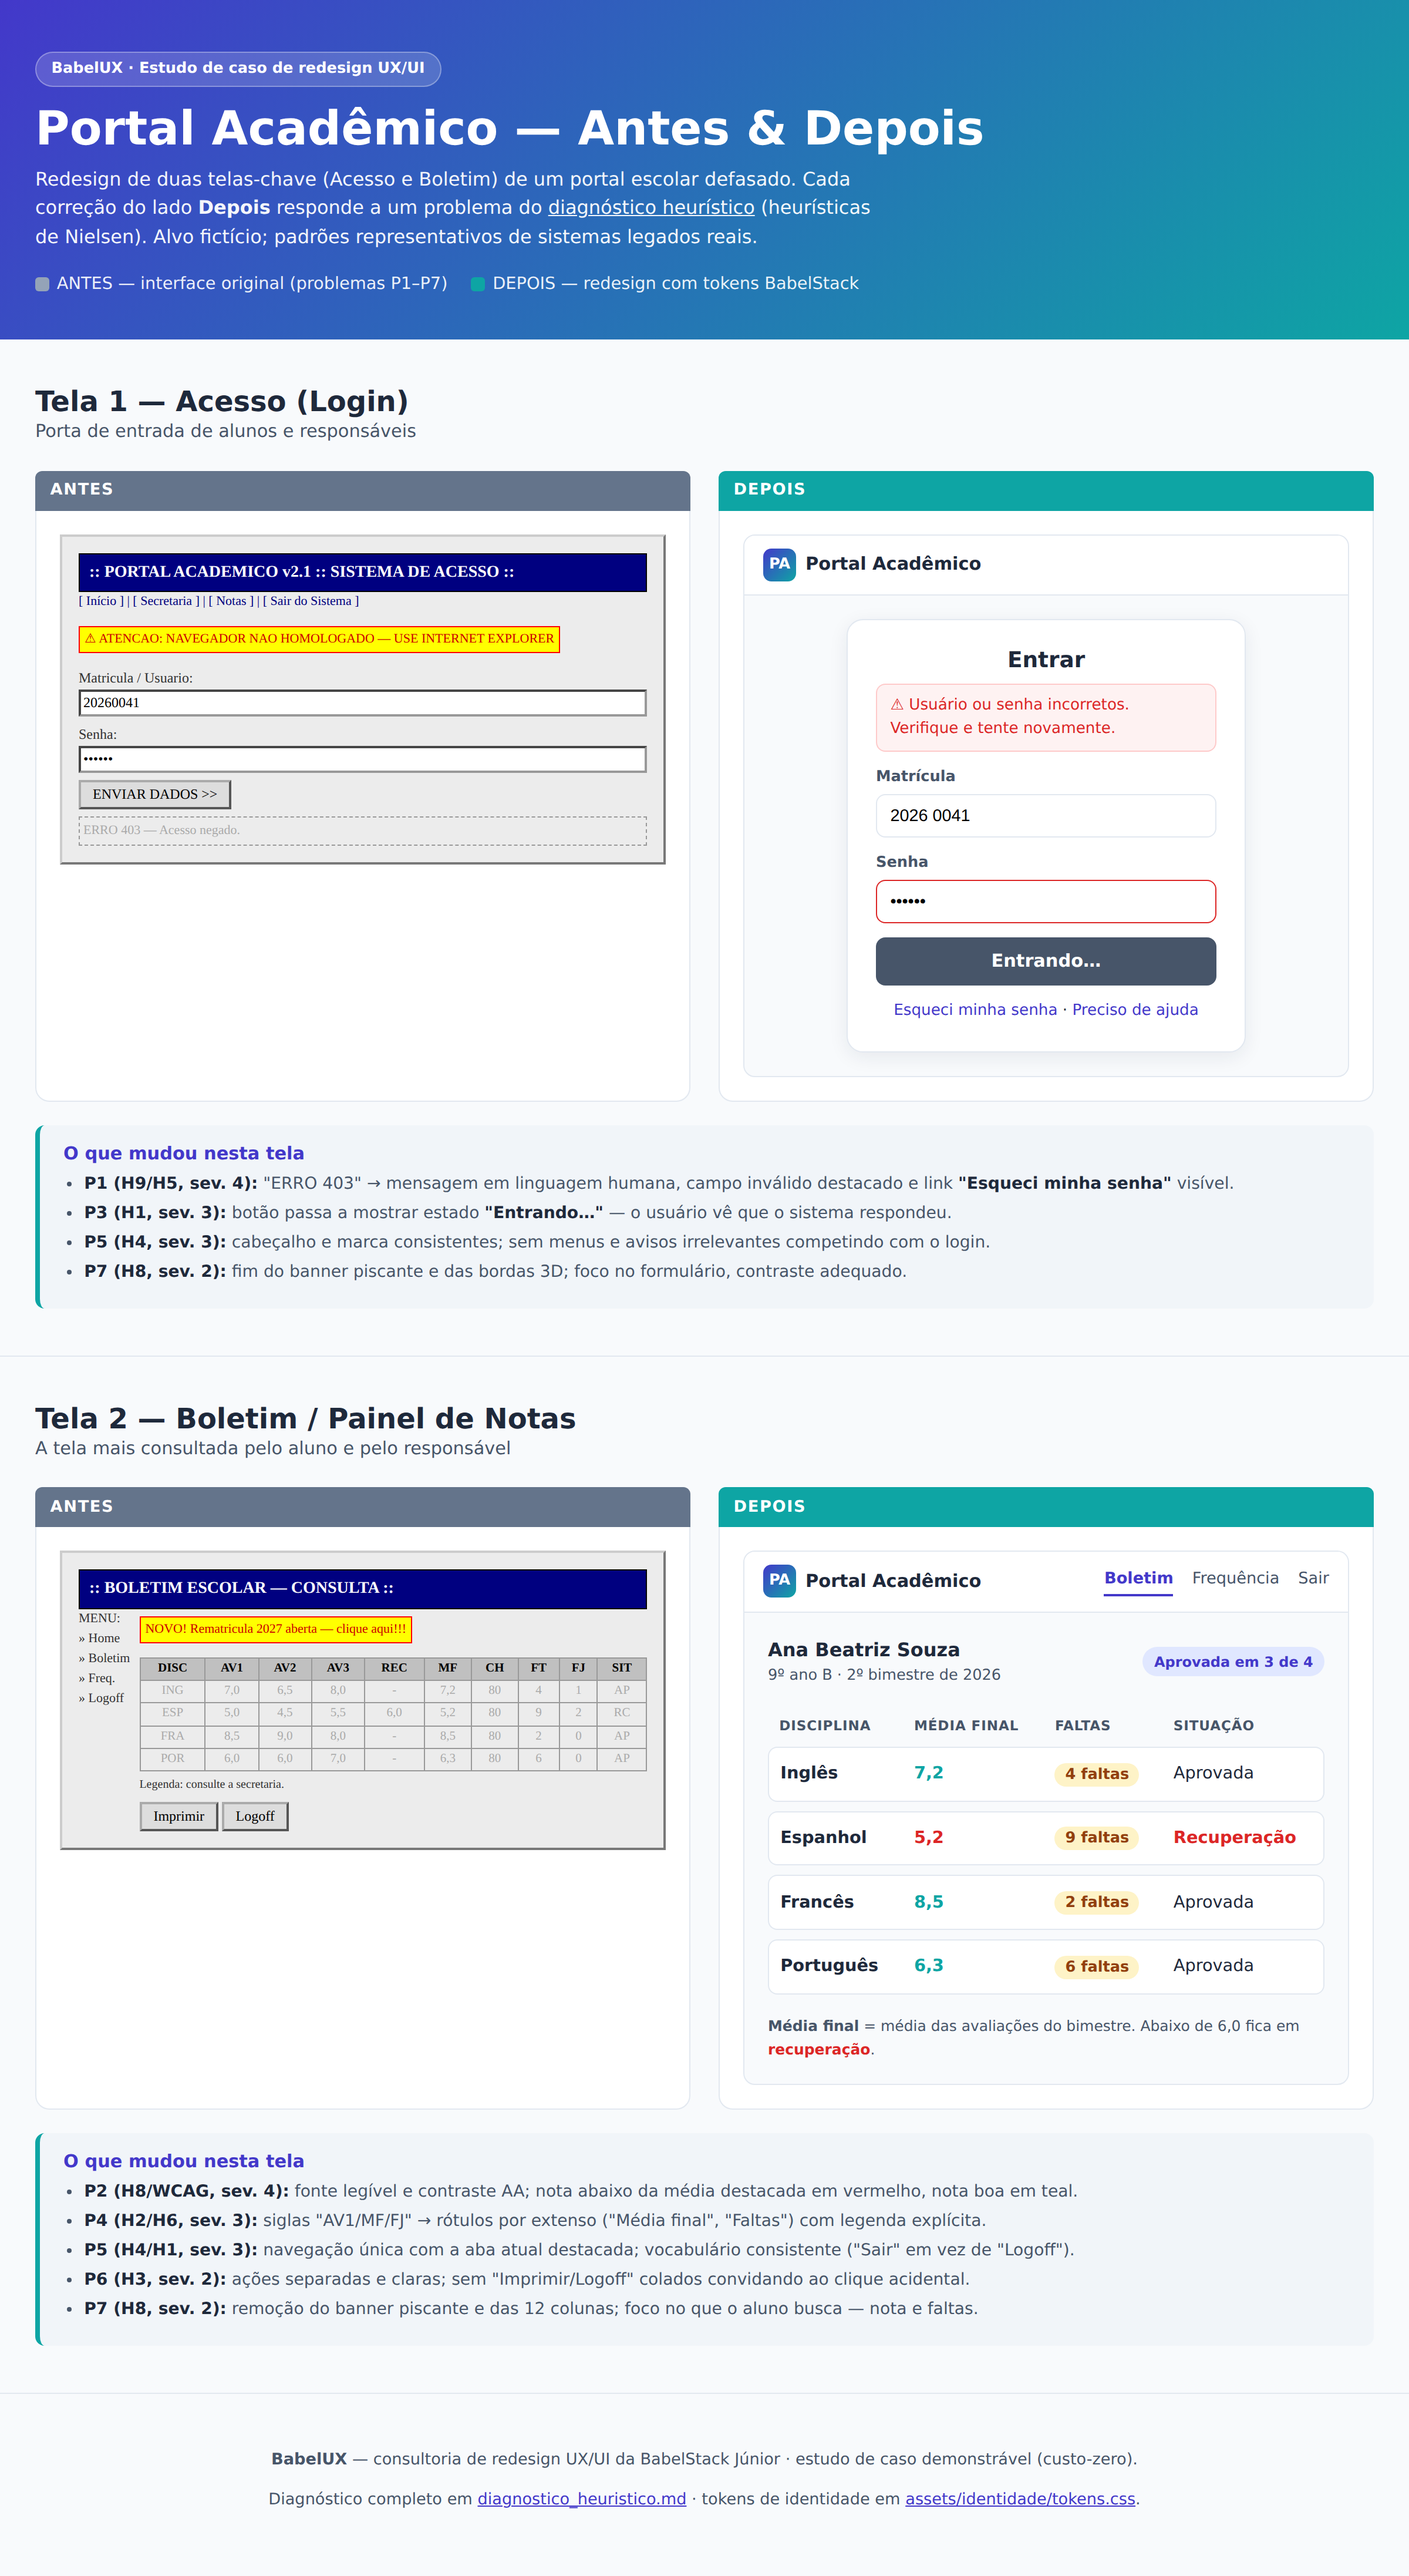
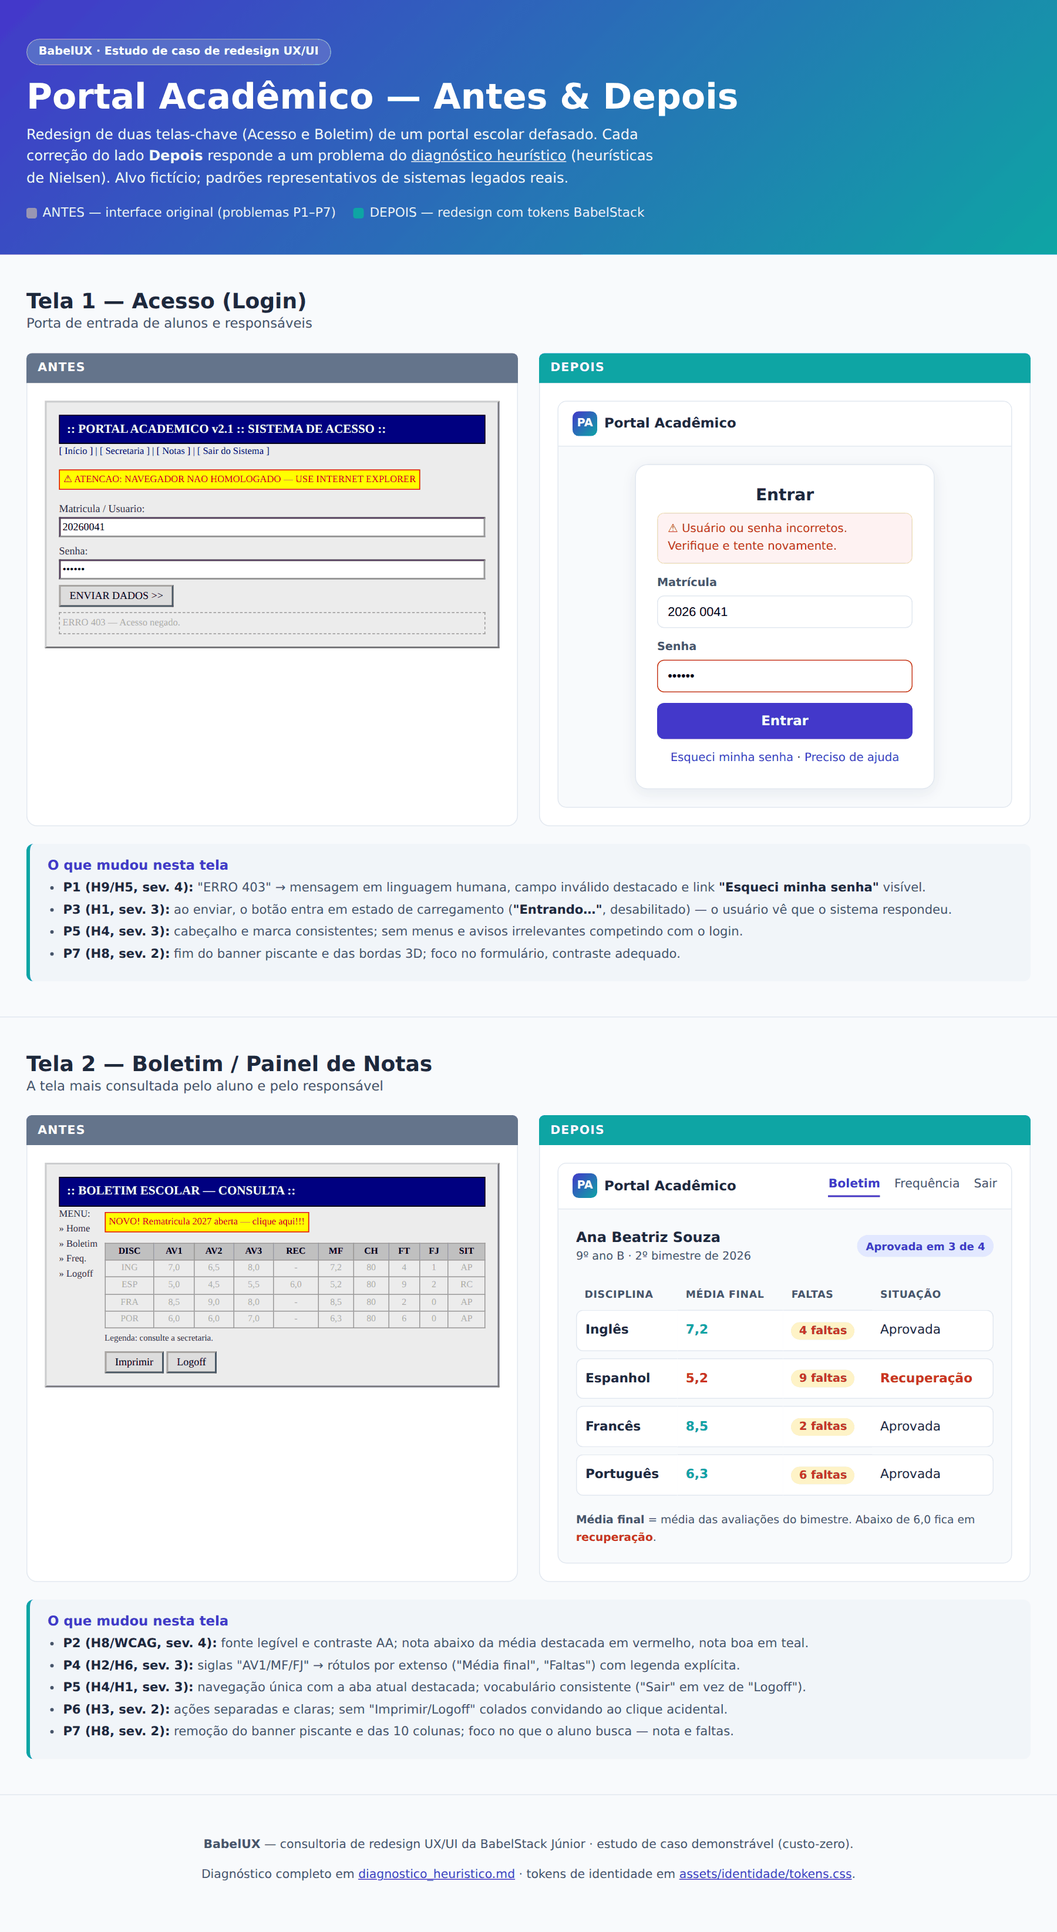
Code review Sprint 3: aplica 8 correcoes de consistencia e limpeza
Correcoes apontadas na revisao de codigo do diff da Sprint 3:

1. plano_sprints.md (S3-4): remove "no Figma" do titulo e registra a entrega
   real (mockup HTML/PNG custo-zero), reconciliando com o jira_backlog.csv.
2. Atribuicao de secao: EduLanding/mockups apontavam "Secao 7" (Analise de
   Mercado); corrigido para "Secao 8" (Portfolio) em edulanding/README.md e
   assets/mockups/README.md.
3. Gantt SVG: remove o marcador "hoje 06/07" (e o item de legenda) que
   contradizia "todayMarker off" da fonte .mmd e apodreceria ate a entrega.
4. BabelUX: "12 colunas" -> "10 colunas" (contagem real da tabela Antes) em
   diagnostico_heuristico.md e antes_depois.html.
5. BabelUX login "Depois": botao volta a "Entrar" (estado coerente de erro);
   nota P3 reescrita para descrever o loading como comportamento ao enviar,
   nao um estado exibido junto do erro.
6. Mockups PNG: reduzidos de 3,4 MB para 444 KB (re-render 1800px +
   quantizacao 256 cores com dithering, sem perda visivel).
7. Remove CSS morto .skeleton-hint em antes_depois.html.
8. Remove variavel --ambar nao utilizada no :root de antes_depois.html.

Todas verificadas por renderizacao (Gantt, BabelUX e EduLanding).

Claude-Session: https://claude.ai/code/session_01DvWn2QkxR6z6CxM54SsZSp

diff --git a/produtos/babelux/antes_depois.html b/produtos/babelux/antes_depois.html
@@ -22,7 +22,7 @@
 
   <style>
     :root {
-      --indigo:#4338CA; --teal:#0EA5A4; --ambar:#F59E0B;
+      --indigo:#4338CA; --teal:#0EA5A4;
       --grafite:#1E293B; --gelo:#F8FAFC; --borda:#E2E8F0;
       --suave:#475569; --branco:#FFFFFF; --erro:#DC2626;
       --gradiente: linear-gradient(135deg,#4338CA,#0EA5A4);
@@ -112,7 +112,6 @@
     .nota-ok { color:var(--teal); font-weight:700; }
     .nota-baixa { color:var(--erro); font-weight:700; }
     .pill-faltas { font-size:.8rem; background:#FEF3C7; color:#92400E; padding:.15rem .55rem; border-radius:999px; font-weight:600; }
-    .skeleton-hint { font-size:.78rem; color:var(--suave); margin-top:.75rem; }
     .legenda-siglas { font-size:.78rem; color:var(--suave); margin-top:.6rem; }
 
     /* ---- anotações de correção ---- */
@@ -186,7 +185,7 @@
                     <label>Senha</label>
                     <input class="invalido" type="password" value="••••••">
                   </div>
-                  <button class="btn carregando">Entrando…</button>
+                  <button class="btn">Entrar</button>
                   <div class="links"><a href="#">Esqueci minha senha</a> · <a href="#">Preciso de ajuda</a></div>
                 </div>
               </div>
@@ -200,7 +199,7 @@
         <h4>O que mudou nesta tela</h4>
         <ul>
           <li><b>P1 (H9/H5, sev. 4):</b> "ERRO 403" → mensagem em linguagem humana, campo inválido destacado e link <b>"Esqueci minha senha"</b> visível.</li>
-          <li><b>P3 (H1, sev. 3):</b> botão passa a mostrar estado <b>"Entrando…"</b> — o usuário vê que o sistema respondeu.</li>
+          <li><b>P3 (H1, sev. 3):</b> ao enviar, o botão entra em estado de carregamento (<b>"Entrando…"</b>, desabilitado) — o usuário vê que o sistema respondeu.</li>
           <li><b>P5 (H4, sev. 3):</b> cabeçalho e marca consistentes; sem menus e avisos irrelevantes competindo com o login.</li>
           <li><b>P7 (H8, sev. 2):</b> fim do banner piscante e das bordas 3D; foco no formulário, contraste adequado.</li>
         </ul>
@@ -282,7 +281,7 @@
           <li><b>P4 (H2/H6, sev. 3):</b> siglas "AV1/MF/FJ" → rótulos por extenso ("Média final", "Faltas") com legenda explícita.</li>
           <li><b>P5 (H4/H1, sev. 3):</b> navegação única com a aba atual destacada; vocabulário consistente ("Sair" em vez de "Logoff").</li>
           <li><b>P6 (H3, sev. 2):</b> ações separadas e claras; sem "Imprimir/Logoff" colados convidando ao clique acidental.</li>
-          <li><b>P7 (H8, sev. 2):</b> remoção do banner piscante e das 12 colunas; foco no que o aluno busca — nota e faltas.</li>
+          <li><b>P7 (H8, sev. 2):</b> remoção do banner piscante e das 10 colunas; foco no que o aluno busca — nota e faltas.</li>
         </ul>
       </div>
     </div>

diff --git a/docs/sprints/plano_sprints.md b/docs/sprints/plano_sprints.md
@@ -76,7 +76,7 @@ Cada sprint ≈ 1 semana. Dupla acadêmica (tempo parcial). Planejamento a **~75
 | S3-1 | EP-EDU | EduLanding: template + exemplo "Feira Cultural de Idiomas" | História | P0 | 3 | Raquel | Template responsivo com pontos editáveis + exemplo preenchido |
 | S3-2 | EP-INTEGRA | IntegraSchool: automação em modo simulação (CSV) | História | P0 | 5 | Roger | Lê CSV, gera resumos/lembretes em arquivo + organiza pastas + log |
 | S3-3 | EP-BABELUX | Diagnóstico heurístico da interface-alvo | História | P0 | 2 | Raquel | ≥5 problemas com severidade e princípio violado |
-| S3-4 | EP-BABELUX | Protótipo "Antes/Depois" no Figma (2 telas) | História | P0 | 3 | Raquel | 2 telas redesenhadas com tokens + comparativo exportado |
+| S3-4 | EP-BABELUX | Protótipo "Antes/Depois" (2 telas) | História | P0 | 3 | Raquel | 2 telas redesenhadas com tokens + comparativo exportado. Entregue como mockup HTML/PNG custo-zero (`produtos/babelux/antes_depois.html`), base para o Figma |
 | S3-5 | EP-DOCS | Gerar Gantt do cronograma (Seção 18) | Tarefa | P0 | 2 | Roger | Gantt com datas reais exportado e inserido na Seção 18 |
 | S3-6 | EP-PLAT | Criar redes sociais (opcional) | Tarefa | P2 | 1 | Raquel | Perfil criado com identidade (se houver tempo) |
 

diff --git a/produtos/babelux/diagnostico_heuristico.md b/produtos/babelux/diagnostico_heuristico.md
@@ -39,7 +39,7 @@ H1 Visibilidade do status do sistema · H2 Correspondência com o mundo real · 
 - **Tela:** Boletim
 - **Heurística violada:** **H8** (estética/minimalismo) e acessibilidade (contraste WCAG AA)
 - **Severidade:** **4 — Catastrófico**
-- **Descrição:** notas em cinza-claro (#AAA) sobre branco, fonte ~11px, numa tabela densa com 12 colunas. No celular exige zoom e rolagem horizontal. Falha o critério de contraste WCAG AA (mínimo 4.5:1).
+- **Descrição:** notas em cinza-claro (#AAA) sobre branco, fonte ~11px, numa tabela densa com 10 colunas. No celular exige zoom e rolagem horizontal. Falha o critério de contraste WCAG AA (mínimo 4.5:1).
 - **Recomendação:** tipografia ≥14px, contraste AA (texto grafite sobre branco-gelo), tabela responsiva que vira cartões no mobile, destaque visual para nota abaixo da média.
 
 ### P3 — Ausência de feedback de carregamento

diff --git a/assets/mockups/README.md b/assets/mockups/README.md
@@ -1,10 +1,10 @@
 # Mockups — BabelStack Júnior
 
-Imagens dos produtos para o portfólio do documento (Seções 7–9). Geradas a partir dos produtos reais em `produtos/`.
+Imagens dos produtos para o **Portfólio de Produtos e Serviços** (Seção 8) do documento. Geradas a partir dos produtos reais em `produtos/`.
 
 | Arquivo | Produto | Referência |
 | --- | --- | --- |
 | `babelux_antes_depois.png` | BabelUX — comparativo Antes/Depois do Portal Acadêmico (2 telas) | Seção 8 · item S3-4 |
-| `edulanding_feira_cultural.png` | EduLanding — landing "Feira Cultural de Idiomas" | Seção 7 · item S3-1 |
+| `edulanding_feira_cultural.png` | EduLanding — landing "Feira Cultural de Idiomas" | Seção 8 · item S3-1 |
 
 > Reexportar: renderizar o `.html` correspondente em `produtos/` e capturar a página inteira (usado `deviceScaleFactor: 2` para nitidez).

diff --git a/produtos/edulanding/README.md b/produtos/edulanding/README.md
@@ -26,4 +26,4 @@ Navegação fixa · Hero (título/data/local + CTA) · Sobre (3 destaques) · Pr
 
 ## Identidade
 
-Cores Índigo `#4338CA` / Teal `#0EA5A4` / Âmbar `#F59E0B`, fontes Space Grotesk + Inter — alinhado a [`docs/identidade_visual.md`](../../docs/identidade_visual.md). Referenciado na **Seção 7** (portfólio) do documento.
+Cores Índigo `#4338CA` / Teal `#0EA5A4` / Âmbar `#F59E0B`, fontes Space Grotesk + Inter — alinhado a [`docs/identidade_visual.md`](../../docs/identidade_visual.md). Referenciado na **Seção 8** (Portfólio de Produtos e Serviços) do documento.
